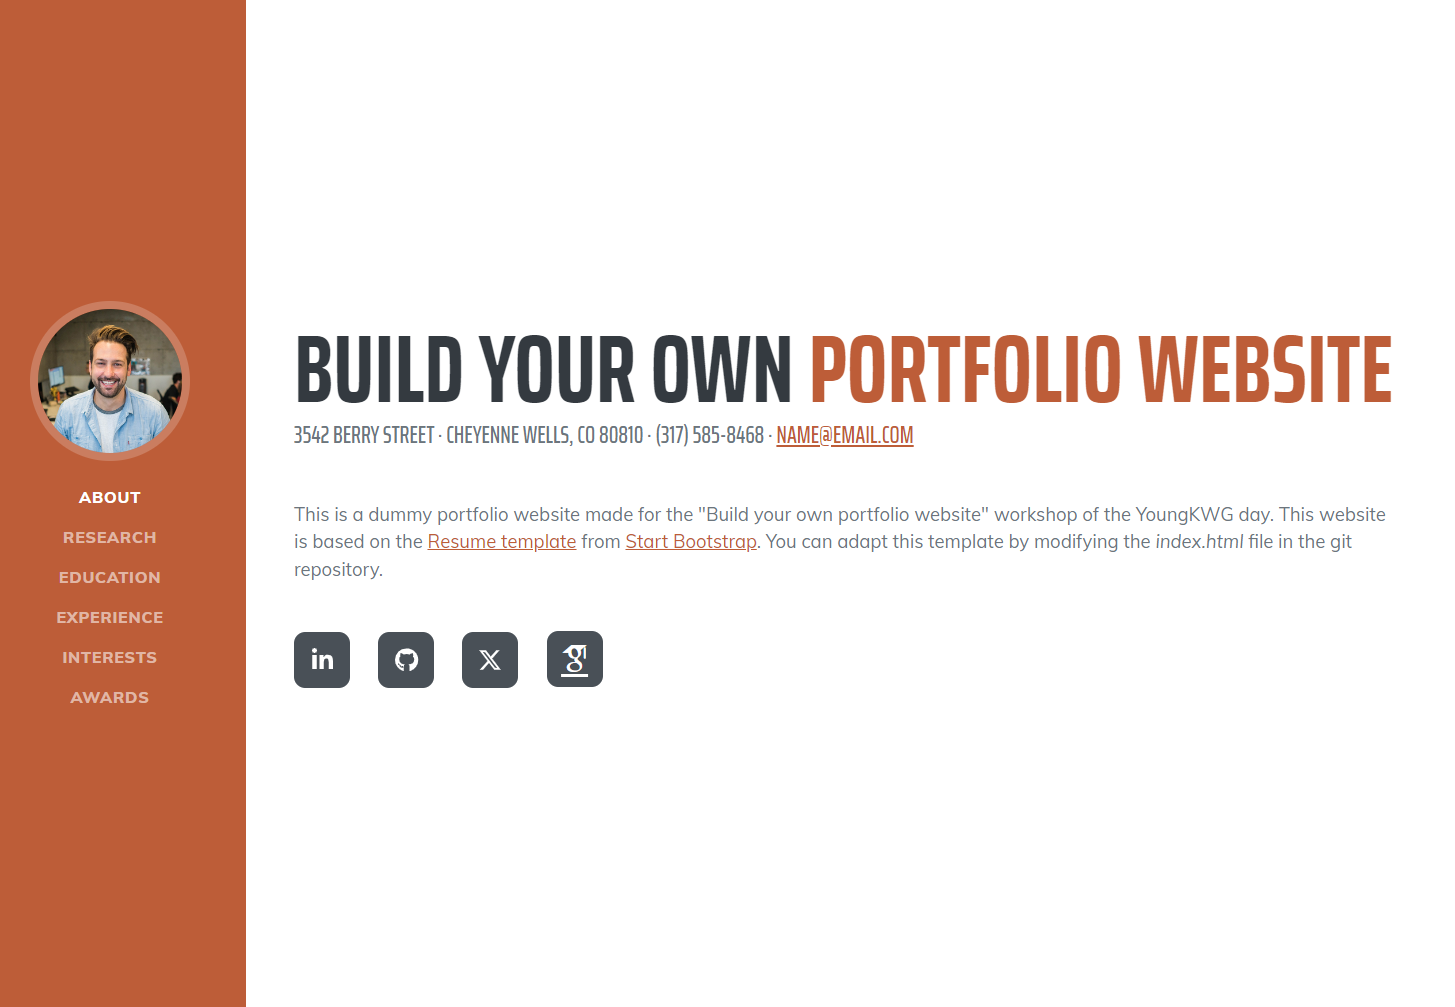
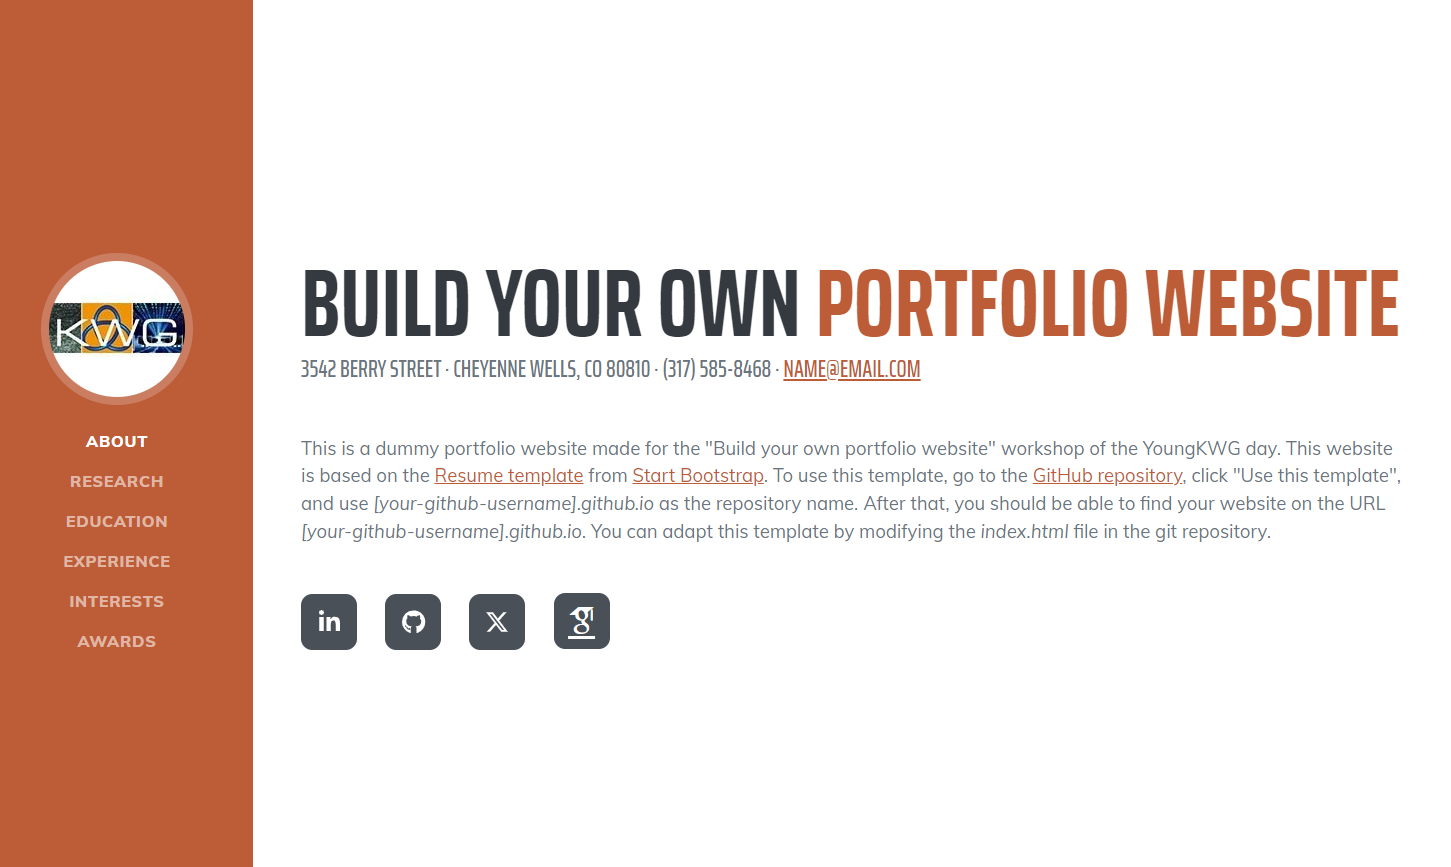
Some more changes

Changed region(s): [[0.0, 0.0, 0.9614, 1.0], [0.031, 0.6851, 0.1241, 0.7474]]

diff --git a/index.html b/index.html
@@ -49,7 +49,7 @@
                         3542 Berry Street · Cheyenne Wells, CO 80810 · (317) 585-8468 ·
                         <a href="mailto:name@email.com">name@email.com</a>
                     </div>
-                    <p class="lead mb-5">This is a dummy portfolio website made for the "Build your own portfolio website" workshop of the YoungKWG day. This website is based on the <a href="https://startbootstrap.com/theme/resume">Resume template</a> from <a href="https://startbootstrap.com/">Start Bootstrap</a>. To use this template, go to the <a href="">GitHub repository</a>, click "Use this template", and use <i>[your-github-username].github.io</i> as the repository name. After that, you should be able to find your website on the URL <i>[your-github-username].github.io</i>. You can adapt this template by modifying the <i>index.html</i> file in the git repository.</p>
+                    <p class="lead mb-5">This is a dummy portfolio website made for the "Build your own portfolio website" workshop of the YoungKWG day. This website is based on the <a href="https://startbootstrap.com/theme/resume">Resume template</a> from <a href="https://startbootstrap.com/">Start Bootstrap</a>. To use this template, go to the <a href="https://github.com/MartijnGosgens/portfolio-workshop">GitHub repository</a>, click "Use this template", and use <i>[your-github-username].github.io</i> as the repository name. After that, you should be able to find your website on the URL <i>[your-github-username].github.io</i>. You can adapt this template by modifying the <i>index.html</i> file in the git repository.</p>
                     <div class="social-icons">
                         <a class="social-icon" href="https://www.linkedin.com/company/young-kwg/posts/?feedView=all"><i class="fab fa-linkedin-in"></i></a>
                         <a class="social-icon" href="https://github.com/MartijnGosgens/portfolio-workshop"><i class="fab fa-github"></i></a>
@@ -165,8 +165,7 @@
             <section class="resume-section" id="interests">
                 <div class="resume-section-content">
                     <h2 class="mb-5">Interests</h2>
-                    <p>Apart from being a web developer, I enjoy most of my time being outdoors. In the winter, I am an avid skier and novice ice climber. During the warmer months here in Colorado, I enjoy mountain biking, free climbing, and kayaking.</p>
-                    <p class="mb-0">When forced indoors, I follow a number of sci-fi and fantasy genre movies and television shows, I am an aspiring chef, and I spend a large amount of my free time exploring the latest technology advancements in the front-end web development world.</p>
+                    <p>Apart from being a mathematician, I enjoy participating in events organized by <a href="https://www.wiskgenoot.nl/index.php?page=overyoungkwg&sid=1">YoungKWG</a> and <a href="wiskgenoot.nl">KWG</a>, in particular when those events involve the development of portfolio websites or event websites.</p>
                 </div>
             </section>
             <hr class="m-0" />
